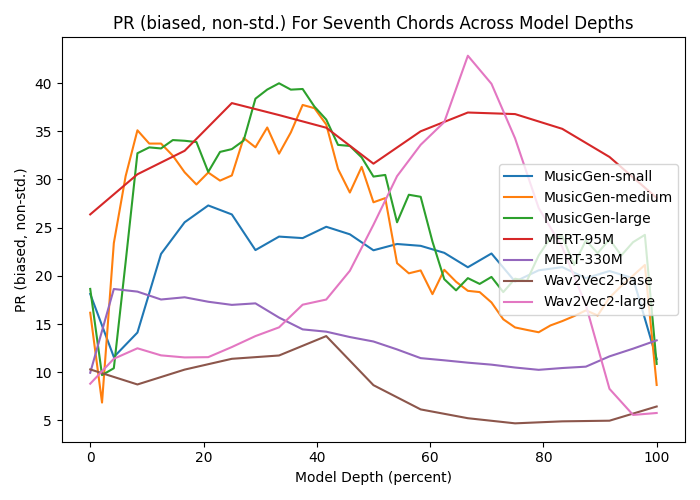
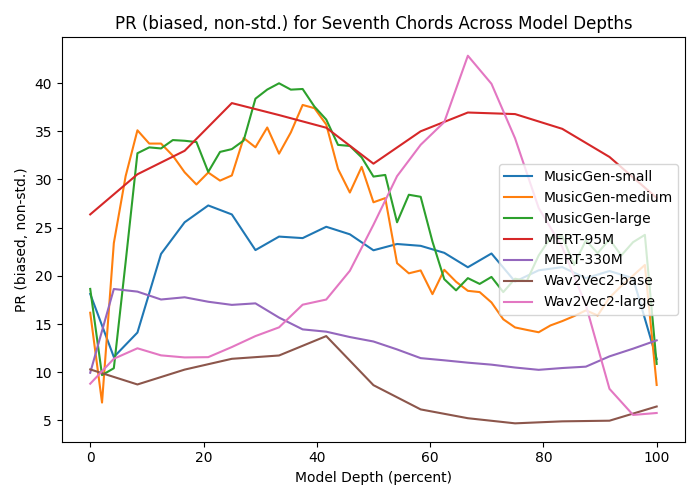
add prop pr

Changed region(s): [[0.15, 0.03, 0.9, 0.06]]

diff --git a/misc/collate_pr.py b/misc/collate_pr.py
@@ -40,22 +40,32 @@ for folder in bpr_folders:
                 cur_bpr = np.load(bpr_path)
                 res[folder][ds][m][l] = cur_bpr
 
-def plot_per_model_across_ds(cur_x, bpr_type, bpr_name, model_size, dsdict):
+def plot_per_model_across_ds(cur_x, bpr_type, bpr_name, model_size, dsdict, prop=False):
     model_pprint = UC.MODEL_PPRINT[model_size]
+    ffn_dim = UC.FFN_DIM[model_size]
     cur_title = f'{bpr_name} Across {model_pprint} Layer Indices'
+    subf = bpr_type
+    fname = f'{model_size}-{bpr_type}-{suffix}.png'
+    if prop == True:
+        cur_title = f'{bpr_name} (prop.) Across {model_pprint} Layer Indices'
+        subf = f'{bpr_type}_prop'
+        fname = f'{model_size}-{bpr_type}_prop-{suffix}.png'
     cur_xlabel = 'Layer Index (1-indexed)'
     fig, ax = plt.subplots(figsize=(7, 5))
     for ds, dsvals in dsdict.items():
         ds_pprint = UC.DATASET_PPRINT[ds]
-        ax.plot(cur_x, dsvals, label=ds_pprint)
+        if prop == False:
+            ax.plot(cur_x, dsvals, label=ds_pprint)
+        else:
+            ax.plot(cur_x, dsvals/ffn_dim, label=ds_pprint)
     ax.set_xlabel(cur_xlabel)
     ax.set_ylabel(bpr_name)
     ax.set_title(cur_title)
     cur_loc = 'center right'
     ax.legend(loc=cur_loc, bbox_to_anchor=(1,0.5))
     plt.tight_layout()
-    res_dir = UMN.by_projpath_multi(subpaths=[GRAPH_FOLDER, bpr_type], make_dir = True)
-    fname = f'{model_size}-{bpr_type}-{suffix}.png'
+    
+    res_dir = UMN.by_projpath_multi(subpaths=[GRAPH_FOLDER, subf], make_dir = True)
     fpath = os.path.join(res_dir, fname)
     plt.savefig(fpath)
     fig.clear()
@@ -70,24 +80,34 @@ for bpr_type, bpr_name in bpr_names.items():
         cur_x = np.arange(num_layers)
         for ds in dses:
             cur_res[ds] = res[bpr_type][ds][m]
-        plot_per_model_across_ds(cur_x, bpr_type, bpr_name, m, cur_res)
+        plot_per_model_across_ds(cur_x, bpr_type, bpr_name, m, cur_res, prop = False)
+        plot_per_model_across_ds(cur_x, bpr_type, bpr_name, m, cur_res, prop = True)
 
-def plot_per_ds_across_models(modelx_dict, bpr_type, bpr_name, cur_ds, modeldict):
+def plot_per_ds_across_models(modelx_dict, bpr_type, bpr_name, cur_ds, modeldict, prop = False):
     ds_pprint = UC.DATASET_PPRINT[cur_ds]
-    cur_title = f'{bpr_name} For {ds_pprint} Across Model Depths'
+    cur_title = f'{bpr_name} for {ds_pprint} Across Model Depths'
+    fname = f'{cur_ds}-{bpr_type}-{suffix}.png'
+    subf = bpr_type
+    if prop == True:
+        cur_title = f'{bpr_name} (prop.) for {ds_pprint} Across Model Depths'
+        fname = f'{cur_ds}-{bpr_type}_prop-{suffix}.png'
+        subf = f'{bpr_type}_prop'
     cur_xlabel = 'Model Depth (percent)'
     fig, ax = plt.subplots(figsize=(7, 5))
     for model_size, mvals in modeldict.items():
         model_pprint = UC.MODEL_PPRINT[model_size]
-        ax.plot(modelx_dict[model_size], mvals, label=model_pprint)
+        ffn_dim = UC.FFN_DIM[model_size]
+        if prop == False:
+            ax.plot(modelx_dict[model_size], mvals, label=model_pprint)
+        else:
+            ax.plot(modelx_dict[model_size], mvals/ffn_dim, label=model_pprint)
     ax.set_xlabel(cur_xlabel)
     ax.set_ylabel(bpr_name)
     ax.set_title(cur_title)
     cur_loc = 'center right'
     ax.legend(loc=cur_loc, bbox_to_anchor=(1,0.5))
     plt.tight_layout()
-    res_dir = UMN.by_projpath_multi(subpaths=[GRAPH_FOLDER, bpr_type], make_dir = True)
-    fname = f'{cur_ds}-{bpr_type}-{suffix}.png'
+    res_dir = UMN.by_projpath_multi(subpaths=[GRAPH_FOLDER, subf], make_dir = True)
     fpath = os.path.join(res_dir, fname)
     plt.savefig(fpath)
     fig.clear()
@@ -104,25 +124,35 @@ for bpr_type, bpr_name in bpr_names.items():
         cur_res = {}
         for m in models:
             cur_res[m] = res[bpr_type][ds][m]
-        plot_per_ds_across_models(m_norm_layer_idxs, bpr_type, bpr_name, ds, cur_res)
+        plot_per_ds_across_models(m_norm_layer_idxs, bpr_type, bpr_name, ds, cur_res, prop = False)
+        plot_per_ds_across_models(m_norm_layer_idxs, bpr_type, bpr_name, ds, cur_res, prop = True)
 
-def plot_per_model_per_ds_across_bpr(cur_x, cur_ds, model_size, resdict):
+def plot_per_model_per_ds_across_bpr(cur_x, cur_ds, model_size, resdict, prop = False):
     model_pprint = UC.MODEL_PPRINT[model_size]
     ds_pprint = UC.DATASET_PPRINT[cur_ds]
+    ffn_dim = UC.FFN_DIM[model_size]
     cur_title = f'PRs For {ds_pprint} Across {model_pprint} Layer Indices'
+    fname = f'{model_size}-{cur_ds}-bpr_all-{suffix}.png'
+    subf = 'b_pr-all'
+    if prop == True:
+        cur_title = f'PRs For {ds_pprint} (prop.) Across {model_pprint} Layer Indices'
+        fname = f'{model_size}-{cur_ds}-bpr_all_prop-{suffix}.png'
+        subf = 'b_pr-all_prop'
     cur_xlabel = 'Layer Index (1-indexed)'
     fig, ax = plt.subplots(figsize=(7, 5))
     for bpr_type, bprtup in resdict.items():
         bpr_name, prvals = bprtup
-        ax.plot(cur_x, prvals, label=bpr_name)
+        if prop == False:
+            ax.plot(cur_x, prvals, label=bpr_name)
+        else:
+            ax.plot(cur_x, prvals/ffn_dim, label=bpr_name)
     ax.set_xlabel(cur_xlabel)
     ax.set_ylabel(bpr_name)
     ax.set_title(cur_title)
     cur_loc = 'center right'
     ax.legend(loc=cur_loc, bbox_to_anchor=(1,0.5))
     plt.tight_layout()
-    res_dir = UMN.by_projpath_multi(subpaths=[GRAPH_FOLDER, 'b_pr-all'], make_dir = True)
-    fname = f'{model_size}-{cur_ds}-bpr_all-{suffix}.png'
+    res_dir = UMN.by_projpath_multi(subpaths=[GRAPH_FOLDER, subf], make_dir = True)
     fpath = os.path.join(res_dir, fname)
     plt.savefig(fpath)
     fig.clear()
@@ -136,7 +166,8 @@ for m in models:
             cur_res[bpr_type] = (bpr_name, res[bpr_type][ds][m])
         num_layers = UC.MODEL_NUM_LAYERS[m]
         cur_x = np.arange(num_layers)
-        plot_per_model_per_ds_across_bpr(cur_x, ds, m, cur_res)
+        plot_per_model_per_ds_across_bpr(cur_x, ds, m, cur_res, prop = False)
+        plot_per_model_per_ds_across_bpr(cur_x, ds, m, cur_res, prop = True)
 
 
 
